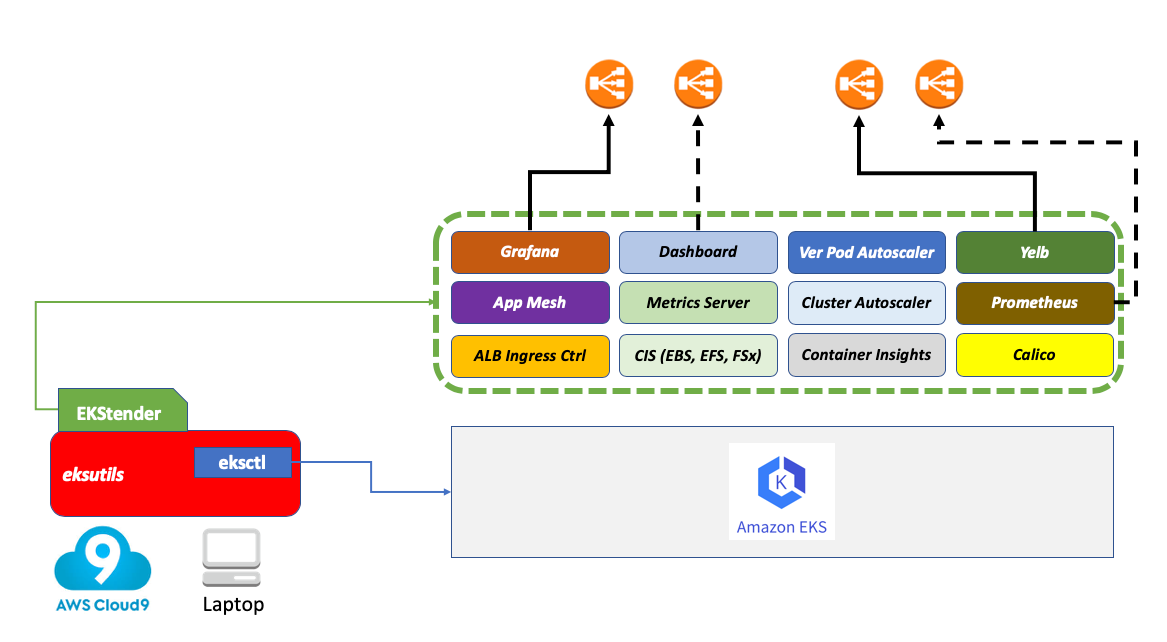
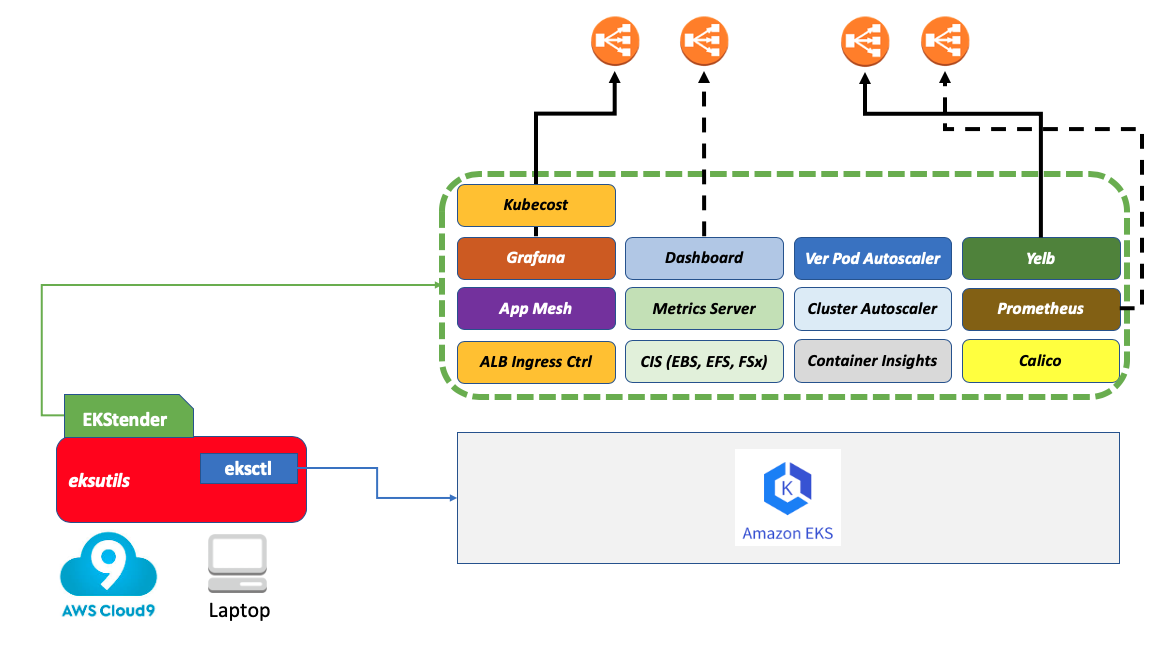
Added Kubecost (+ fixed ClusterAutoscaler for the new 1.18 images)

Changed region(s): [[0.0308, 0.0, 0.9871, 0.9657], [0.617, 0.7165, 0.7095, 0.8411], [0.9254, 0.6542, 0.9563, 0.6854]]

diff --git a/README.md b/README.md
@@ -35,6 +35,7 @@ This is a list of modules, features and configurations that `EKStender` can enab
 - Grafana
 - CloudWatch Container Insights
 - AppMesh controller and sidecar injector
+- Kubecost
 - Demo application ([Yelb](https://github.com/mreferre/yelb))
 
 In addition to the above, a multi-purpose `eks-admin` Service Account is created: it can be used to login into the Dashboard via grabbing its token. Note also that some of these add-ons can be enabled/disabled. Look at the `USER INPUTS` section of the `ekstender.sh` script to check for what is enabled and what not. In addition, when you launch the script a summary will show what it will install.
